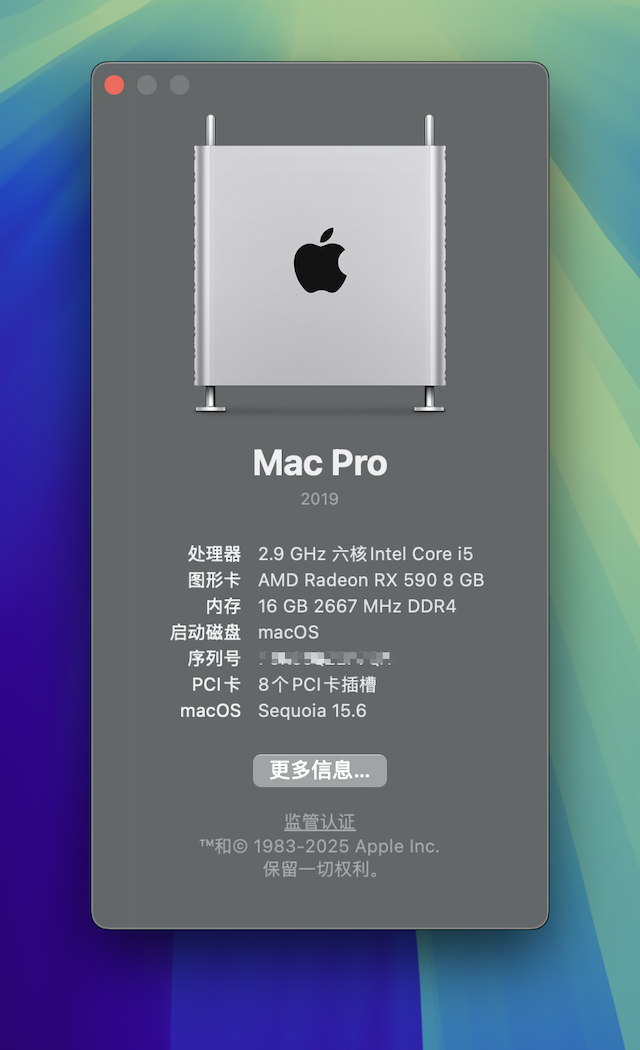
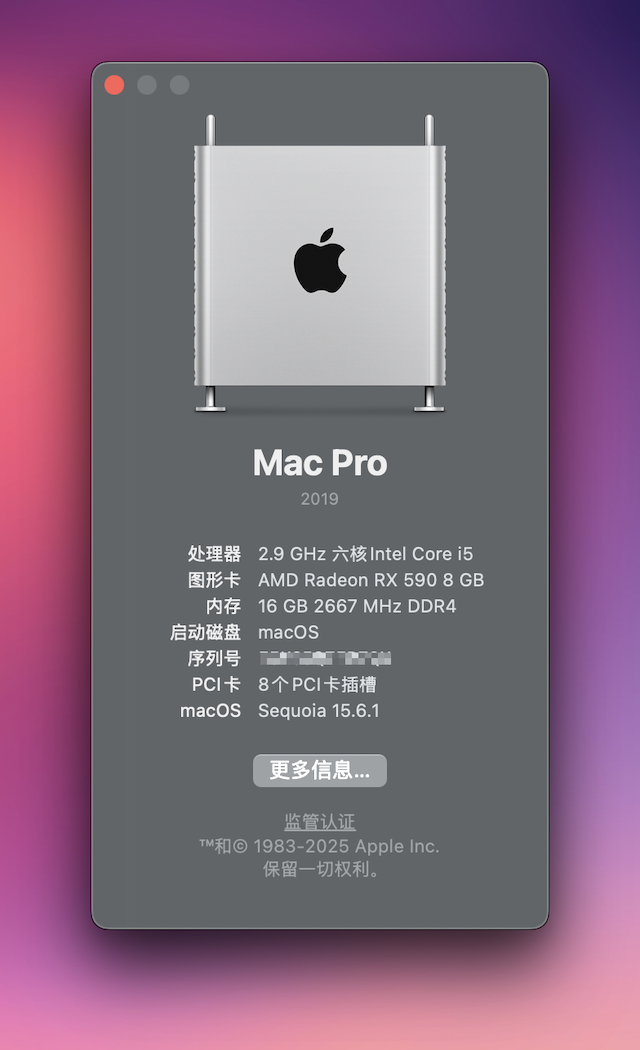
macOS 15.6.1

diff --git a/README.md b/README.md
@@ -1,7 +1,7 @@
 <!---  Update the following   -->
 
-[os_img]: https://img.shields.io/badge/macOS-15.6-6D67E4
-[os_link]: https://support.apple.com/en-hk/122716
+[os_img]: https://img.shields.io/badge/macOS-15.6.1-6D67E4
+[os_link]: https://developer.apple.com/documentation/macos-release-notes/macos-15_6-release-notes
 
 [oc_img]: https://img.shields.io/badge/OpenCore-1.0.5-519872
 [oc_link]: https://github.com/acidanthera/OpenCorePkg/releases/tag/1.0.5
@@ -40,7 +40,7 @@
 
 | Version  |  Date      | Compatibility     | OC & OCLP      | Changes         |
 | :------: | :--------: | ----------------- | :------------: | --------------- |
-| 5.4      | 2025-07-30 | 15.5 ~ 15.6       | 1.0.5 & 2.4.0  | Change SMBIOS from **iMacPro1,1** to **MacPro7,1** |
+| 5.4      | 2025-07-30 | 15.5 ~ 15.6.1     | 1.0.5 & 2.4.0  | Change SMBIOS from **iMacPro1,1** to **MacPro7,1** |
 | 5.3      | 2025-04-01 | 15.4 ~ 15.4.1     | 1.0.4 & 2.3.0  |                 |
 | 5.2      | 2024-12-12 | 15.2 ~ 15.3.2     | 1.0.3 & 2.2.0  |                 |
 | 5.1      | 2024-10-30 | 15.1              | 1.0.2 & 2.0.2  |                 |
